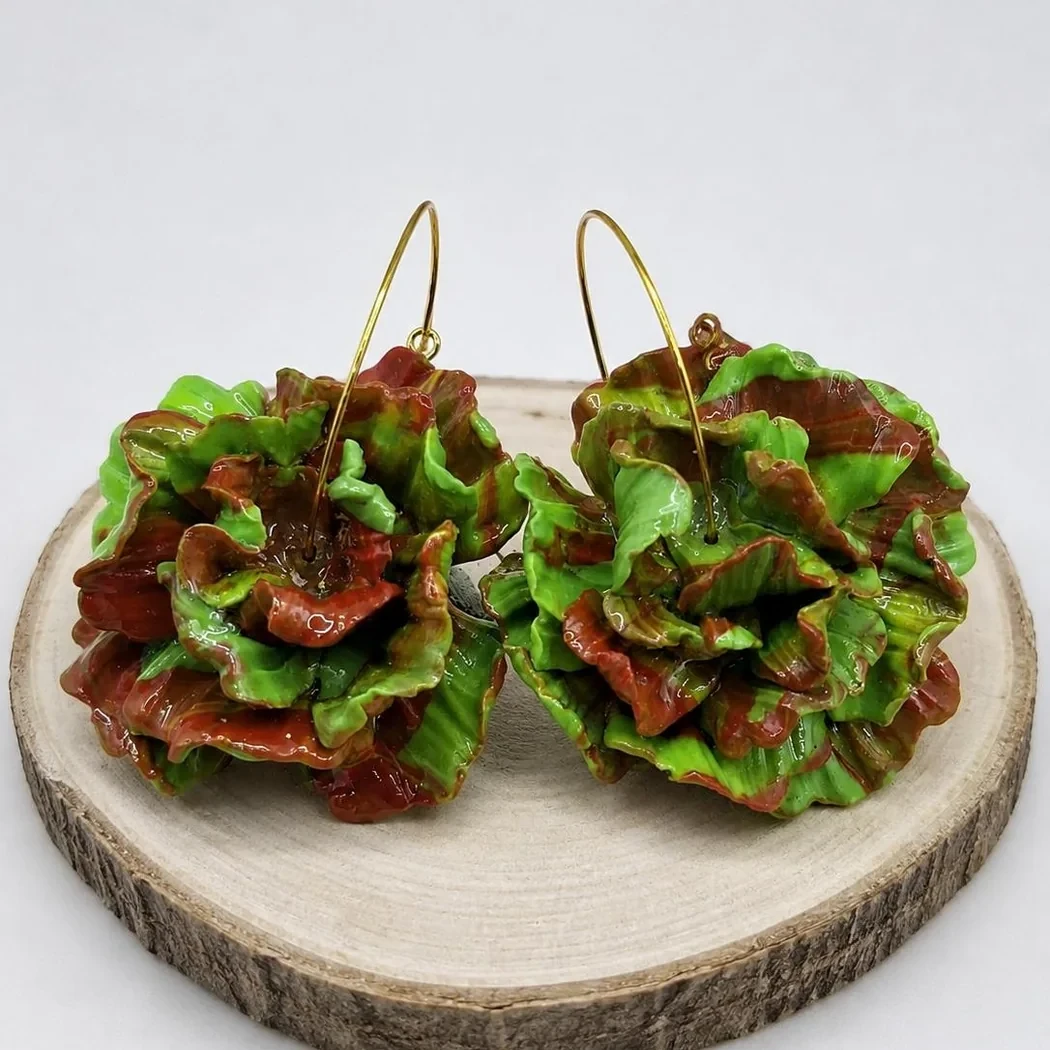
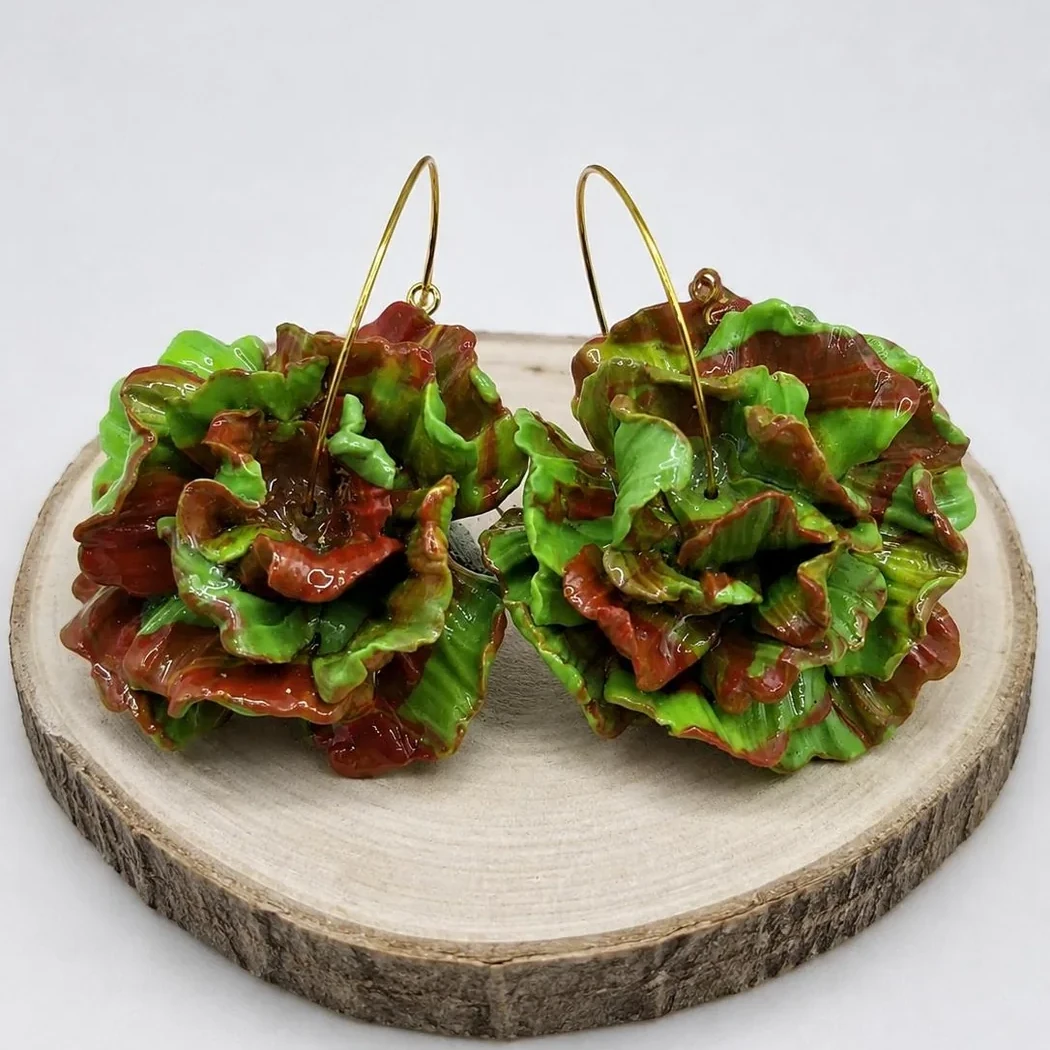
Ajuster le cadrage Liera

diff --git a/script.js b/script.js
@@ -1082,9 +1082,9 @@ const products = [
     "category": "florales",
     "tag": "Florales",
     "price": 16,
-    "image": "./assets/catalogue-saugardevalerie/photos/row-047.webp?v=5",
+    "image": "./assets/catalogue-saugardevalerie/photos/row-047.webp?v=6",
     "gallery": [
-      "./assets/catalogue-saugardevalerie/photos/row-047.webp?v=5"
+      "./assets/catalogue-saugardevalerie/photos/row-047.webp?v=6"
     ],
     "description": "Les Liera sont composées de pétales façonées à la main unes à unes, marbrée de \"vert et de teracotta\" ce qui les rends uniques par leur couleur originale pénsées avec soins. montées sur des apprêts en acier inoxydable dorés.\n\nLes Liera sont parfaites pour attirer le regard avec élégance, tout en gardant un rendu affirmé sans trop charger votre visage.",
     "characteristics": [

diff --git a/index.html b/index.html
@@ -174,6 +174,6 @@
     </aside>
     <div class="overlay" data-overlay></div>
 
-    <script src="./script.js?v=26"></script>
+    <script src="./script.js?v=27"></script>
   </body>
 </html>
